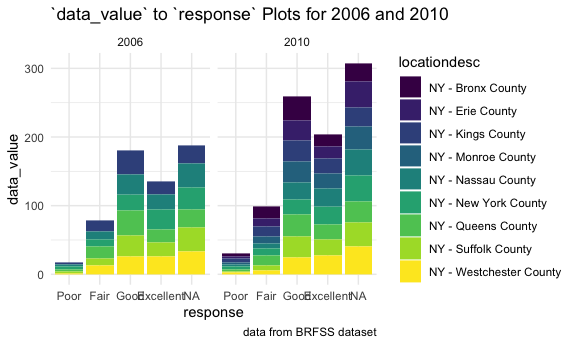
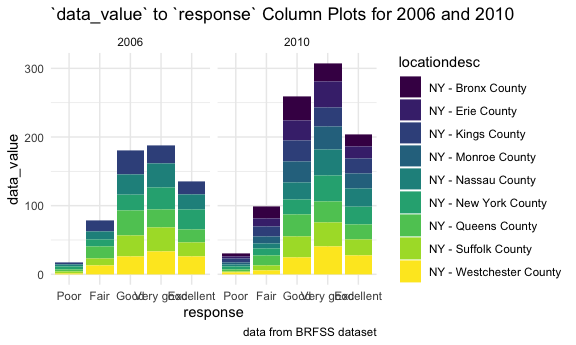
modify the plot for problem 2

diff --git a/p8105_hw3_ml5018.md b/p8105_hw3_ml5018.md
@@ -434,7 +434,7 @@ brfss_smart2010 =
   filter(topic == "Overall Health",
          response %in% c("Excellent", "Very good", "Good", "Fair", "Poor")) |>
   mutate(response = factor(response, ordered =TRUE, 
-                           levels = c("Poor", "Fair", "Good", "Very Good", "Excellent")))
+                           levels = c("Poor", "Fair", "Good", "Very good", "Excellent")))
 ```
 
 ## Explore the data
@@ -555,7 +555,7 @@ brfss_smart2010 |>
   facet_grid(.~year) +
   theme(axis.text.x = element_text()) +
   labs(
-    title = "`data_value` to `response` Plots for 2006 and 2010",
+    title = "`data_value` to `response` Column Plots for 2006 and 2010",
     x = "response",
     y = "data_value",
     caption = "data from BRFSS dataset"
@@ -564,12 +564,33 @@ brfss_smart2010 |>
 
 <img src="p8105_hw3_ml5018_files/figure-gfm/two_panel-1.png" width="90%" />
 
+``` r
+brfss_smart2010 |>
+  filter(year %in% c(2006,2010),
+         locationabbr == "NY") |>
+  ggplot(aes(x = data_value, fill = response)) +
+  geom_density(alpha = 0.5) +
+  facet_grid(.~year) +
+  theme(axis.text.x = element_text()) +
+  labs(
+    title = "`data_value` to `response` Density Plots for 2006 and 2010",
+    x = "response",
+    y = "density",
+    caption = "data from BRFSS dataset"
+  )
+```
+
+<img src="p8105_hw3_ml5018_files/figure-gfm/two_panel-2.png" width="90%" />
+
 Some of the settings were set up in the first code chunk, applying for
-all the plots generated.
+all the plots generated. A column and density plot are drawn to compare
+between different years and response groups.
 
 It can be concluded from the plot that the overall patterns of data
 value distribution for response are quite similar in the two years
-chosen.
+chosen. And for different resonse groups, the “poor” group possesses a
+significantly different density and distribution compared with other
+groups, which tend to overlap with each other on the density plot.
 
 # Problem 3
 
